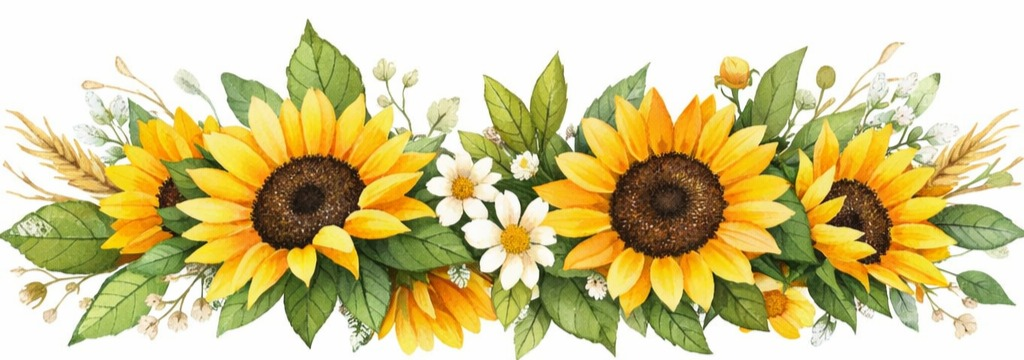
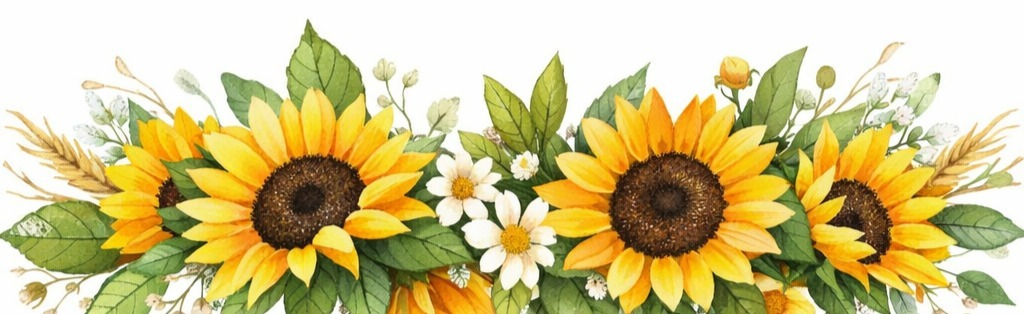
Add files via upload

diff --git a/styles.css b/styles.css
@@ -13,7 +13,7 @@ body {
     background-size: 100% auto, 100% auto;
     background-color: #ffffff;
 
-    min-height: 80vh;
+    min-height: 100vh;
 }
 
 /* === Header Navigation === */
@@ -167,12 +167,21 @@ p {
 
 @media (max-width: 700px){
 
+    body{
+        /* shrink the flower backgrounds on phones */
+        background-size: 100% 220px, 100% 220px;
+    }
+
     h1{
         font-size:2.2rem;
     }
 
+    p{
+        font-size:1.2rem;
+    }
+
     main{
-        margin:160px 20px;
+        margin:120px 20px 120px 20px;
         padding:20px;
     }
 
@@ -180,6 +189,5 @@ p {
         gap:20px;
         font-size:0.9rem;
     }
-
 
 }

diff --git a/index.html b/index.html
@@ -4,7 +4,7 @@
 <head>
 <meta charset="UTF-8">
 <meta name="viewport" content="width=device-width, initial-scale=1.0">
-<title>Kathrine & Ishmel's Wedding</title>
+<title>KC & Ishmel's Wedding</title>
 
 <link rel="stylesheet" href="styles.css">
 
@@ -23,7 +23,7 @@
 
 <main>
 
-<h1>Kathrine & Ishmel Dunson</h1>
+<h1>KC & Ishmel</h1>
 
 <h2>May 24, 2026 • 4:00 PM</h2>
 
@@ -43,6 +43,4 @@ Maryville, TN 37804
 </main>
 
 </body>
-
 </html>
-
